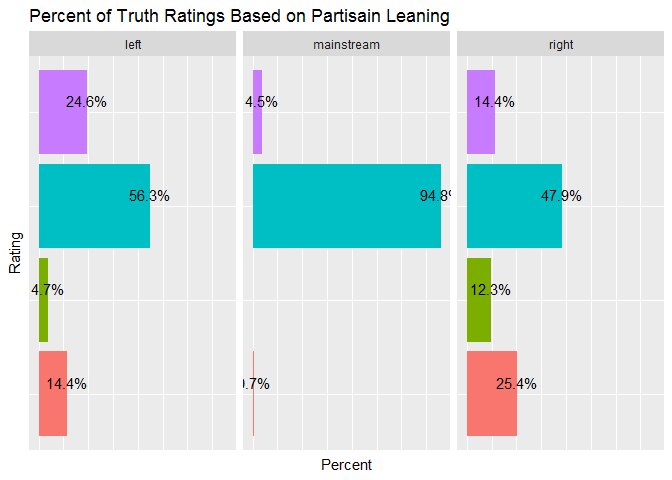
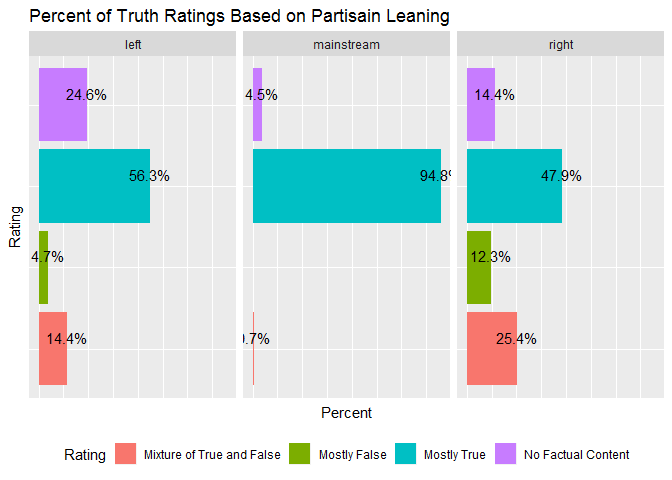
initial summary

diff --git a/facebook_factcheck.md b/facebook_factcheck.md
@@ -18,6 +18,12 @@ DATA WRANGLING:
 The data was not very messy. I did have to rename some features. Account id, post id, and the post url were integers that were changed to character strings. Date Published was a factor that was changed to a date. There were a few NAs that had to be changed in the columns share count, reaction count, and the comment count. The NAs were changed to the median instead of the mean, because the outliers of all of these columns caused each of them to be heavily skewed to the right.
 
 ``` r
+library(digest)
+```
+
+    ## Warning: package 'digest' was built under R version 3.4.4
+
+``` r
 library(dplyr)
 ```
 
@@ -66,8 +72,27 @@ library(scales)
     ##     col_factor
 
 ``` r
-#library(RWeka)
+library(plotly)
+```
 
+    ## Warning: package 'plotly' was built under R version 3.4.4
+
+    ## 
+    ## Attaching package: 'plotly'
+
+    ## The following object is masked from 'package:ggplot2':
+    ## 
+    ##     last_plot
+
+    ## The following object is masked from 'package:stats':
+    ## 
+    ##     filter
+
+    ## The following object is masked from 'package:graphics':
+    ## 
+    ##     layout
+
+``` r
 fb<-read.csv("file:///C:/Users/John/Documents/R/fact-checking-facebook-politics-pages/facebook-fact-check.csv")
 
 summary(fb)
@@ -145,6 +170,17 @@ fb[which(is.na(fb$share_count)),"share_count"]<- 87
 fb[which(is.na(fb$reaction_count)),"reaction_count"]<- 543
 fb[which(is.na(fb$comment_count)),"comment_count"]<- 131
 
+#assigning variables
+Total_count<- (fb$share_count+ fb$reaction_count+fb$comment_count)
+
+
+#fRating<-(fb$Rating -("mostly true") + ("no factual content"))
+
+
+#graphs
+#ggplot(fb)+
+  #geom_histogram(aes(fRating))
+  
 
 ggplot(fb,aes(x=Category,y = percent(1), fill= Rating))+
    geom_bar(position = "fill",stat = "identity") +
@@ -154,8 +190,6 @@ ggplot(fb,aes(x=Category,y = percent(1), fill= Rating))+
 ![](facebook_factcheck_files/figure-markdown_github/unnamed-chunk-2-1.png)
 
 ``` r
-Total_count<- (fb$share_count+ fb$reaction_count+fb$comment_count)
-
 ggplot(fb,aes(x=Rating,y= reaction_count,color= Category))+
   geom_boxplot(coef=3, fun = median)+
   coord_cartesian(ylim=c(0,50000))+
@@ -257,7 +291,6 @@ str(fb)
 
 ``` r
 ggplot(fb, aes(x=Page,fill= Rating))+
-  guides(fill=FALSE)+
   geom_bar()+
   coord_flip()+
   ggtitle("Truth Ratings for Indivdual Pages")
@@ -268,8 +301,9 @@ ggplot(fb, aes(x=Page,fill= Rating))+
 ``` r
 ggplot(fb,aes(x=Post.Type,y= reaction_count, col=Rating))+
   geom_point(position = "jitter")+
-  facet_grid(~ Rating)+
+  facet_grid(Post.Type ~ Rating)+
   coord_cartesian(ylim=c(0,50000))+
+   theme( axis.text.x.bottom = element_blank())+
   ggtitle("Truth Ratings Based on Post Type")
 ```
 
@@ -292,13 +326,14 @@ ggplot(fb,aes(x=Rating, group=Page))+
     geom_text(aes( label = scales::percent(..prop..),
                    y= ..prop.. ), stat= "count", vjust = -.5) +
     labs(y = "Percent", fill="Rating") +
-    facet_grid(~Page) +
+    facet_wrap(~Page, labeller = label_value) +
     scale_y_continuous(labels = scales::percent)+
   coord_flip()+
-  guides(fill=FALSE)+
   ggtitle("Percent of Truth Ratings Based on Pages")+
   theme(axis.ticks = element_blank(), 
-        axis.text = element_blank())
+        axis.text = element_blank(),
+        legend.position="bottom")+
+        scale_fill_discrete(labels=c("Mixture of True and False","Mostly False","Mostly True","No Factual Content"))
 ```
 
 ![](facebook_factcheck_files/figure-markdown_github/unnamed-chunk-4-1.png)
@@ -312,10 +347,11 @@ ggplot(fb,aes(x=Rating, group=Category))+
     facet_grid(~Category) +
     scale_y_continuous(labels = scales::percent)+
   coord_flip()+
-  guides(fill=FALSE)+
   ggtitle("Percent of Truth Ratings Based on Partisain Leaning")+
   theme(axis.ticks = element_blank(), 
-        axis.text = element_blank())
+        axis.text = element_blank(),
+ legend.position="bottom")+
+        scale_fill_discrete(labels=c("Mixture of True and False","Mostly False","Mostly True","No Factual Content"))
 ```
 
 ![](facebook_factcheck_files/figure-markdown_github/unnamed-chunk-4-2.png)
@@ -346,5 +382,43 @@ ggplot(fb)+
     ## Warning: Removed 128 rows containing missing values (geom_point).
 
 ![](facebook_factcheck_files/figure-markdown_github/unnamed-chunk-4-4.png)
+
+``` r
+ggplot(fb, aes(x=" ", y= Total_count, fill= reaction_count)) +
+       geom_bar(width = 1, stat = "identity") +
+       coord_polar("y", start=1)+ 
+  ggtitle("Total Count vs Reaction Count")
+```
+
+![](facebook_factcheck_files/figure-markdown_github/unnamed-chunk-4-5.png)
+
+``` r
+ggplot(fb, aes(x=" ", y=Total_count, fill= share_count)) +
+       geom_bar(width = 1, stat = "identity") +
+       coord_polar("y", start=12)+ 
+  ggtitle("Total Count vs Share Count")
+```
+
+![](facebook_factcheck_files/figure-markdown_github/unnamed-chunk-4-6.png)
+
+``` r
+ggplot(fb, aes(x=" ", y=Total_count, fill= comment_count)) +
+       geom_bar(width = 1, stat = "identity") +
+       coord_polar("y", start=6)+ 
+  ggtitle("Total Count vs Comment Count")
+```
+
+![](facebook_factcheck_files/figure-markdown_github/unnamed-chunk-4-7.png)
+
+``` r
+fals_tags<-fb[fb$Rating=="mostly false",]
+
+
+ggplot(data = fals_tags)+
+ geom_bar(mapping = aes(x = Category, fill = Page))+
+  ggtitle("Mostly False based Left vs. Right")
+```
+
+![](facebook_factcheck_files/figure-markdown_github/unnamed-chunk-4-8.png)
 
 Note that the `echo = FALSE` parameter was added to the code chunk to prevent printing of the R code that generated the plot.
